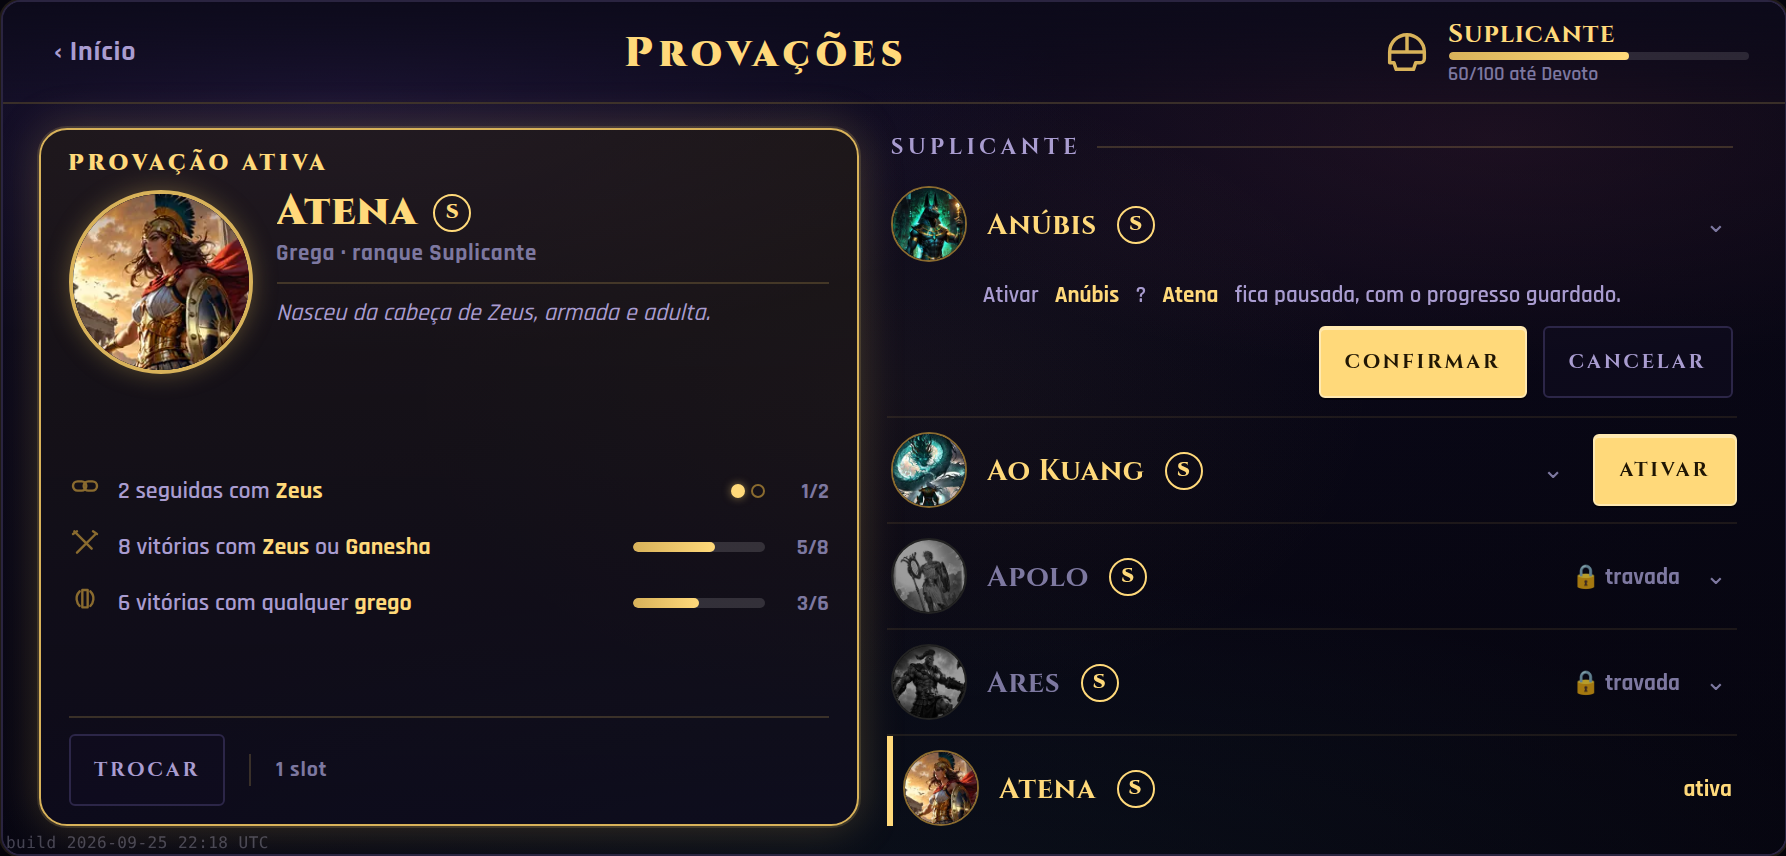
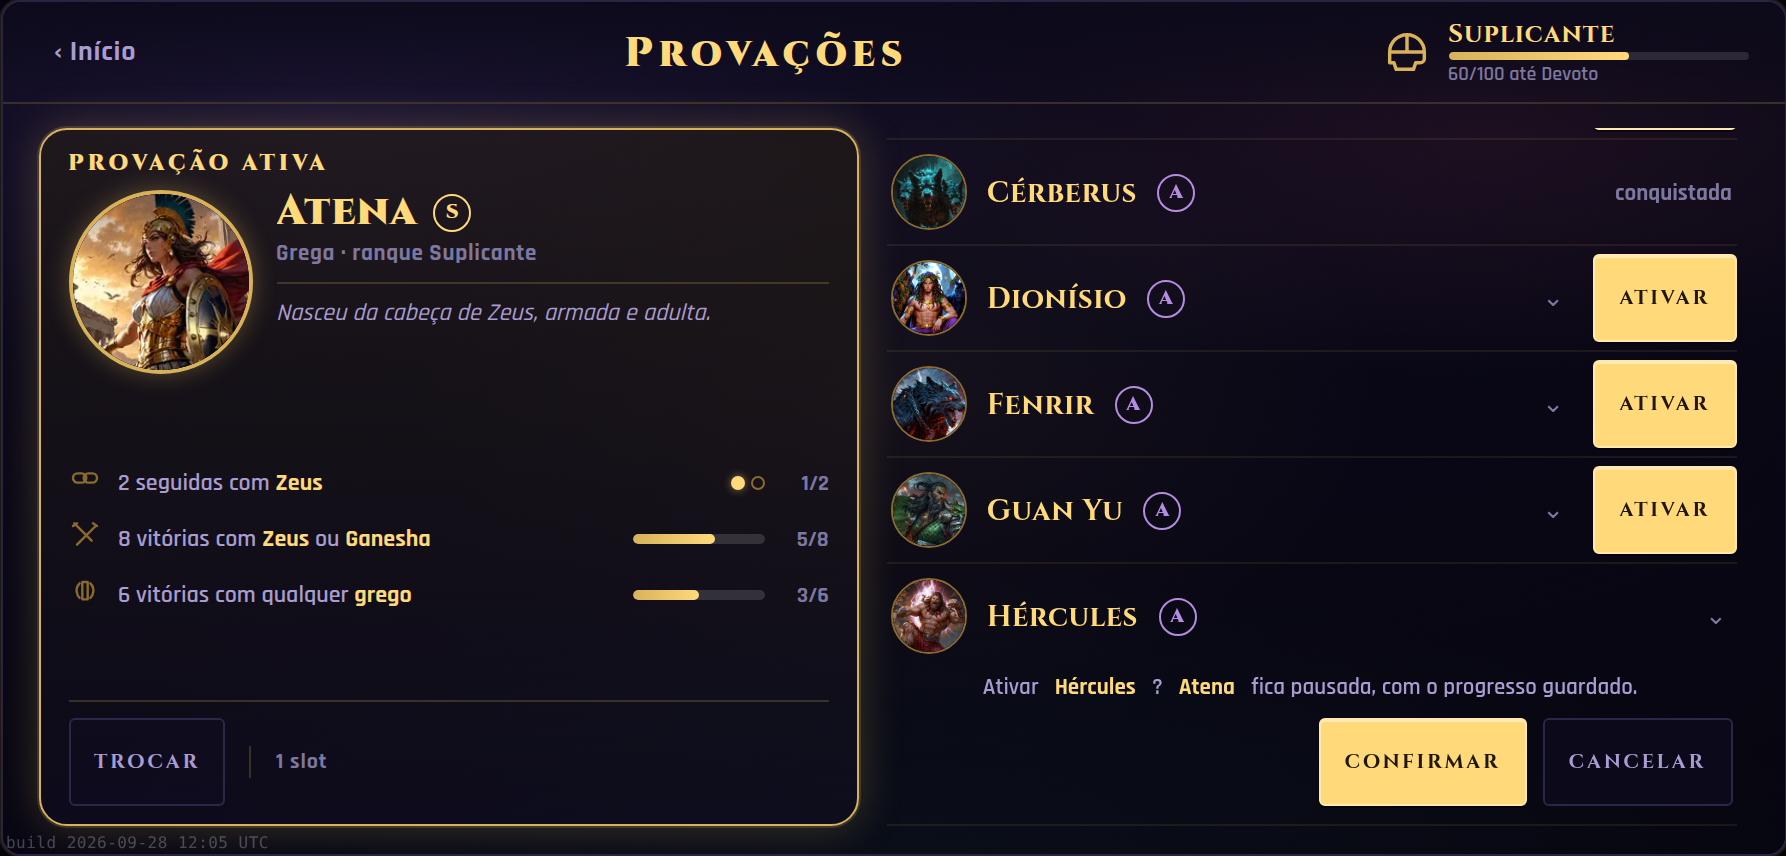
§316: quatro correções antes do teste no aparelho
1) Piso de toque §301: ATIVAR/RETOMAR/CONFIRMAR/CANCELAR e TROCAR de 36 → 44px de
   design (~37 físicos no S24, escala ~0,84, acima do piso 28–34). A guarda passa a
   medir CADA botão (não só a linha, que segue ≥44).
2) Expandir não abre fora da vista: renderMissoes rola a coluna (scrollIntoView
   block:'nearest') ao expandir uma linha ou abrir a confirmação, para a área aberta
   ficar inteira visível. Guarda nova: expandir a ÚLTIMA linha deixa a .lr__exp dentro
   do viewport da coluna nas 4 larguras. Capturas de travada/pausada expandidas com
   Medusa/Hércules nas posições reais (roladas até a vista), não movidas ao topo.
3) Lista de nomes: "v" lê "A, B ou C" (vírgula + "ou" só no último) e "A ou B" com
   dois — painel e expansão. Pior: "Guan Yu, Nezha ou Ao Kuang".
4) DIST: guardas (jsdom + Chromium) e capturas rodam sobre dist/incursion.html — a
   suíte builda o dist antes, o teste lê o dist e o Chromium abre por file://.

DECISOES §316 + ESTADO atualizados. Suíte + build verdes.

Claude-Session: https://claude.ai/code/session_01RXkcJMEMadTZtCymgt9Yf6

diff --git a/tests/missoes_tela.test.js b/tests/missoes_tela.test.js
@@ -137,11 +137,22 @@ console.log('\n== 10. elo com o deus (medalhão do painel) ==');
   ok(w.eval("rotaAtual()==='deus'"), 'o medalhão do painel leva ao detalhe do deus');
 }
 
-// ---- 11. ALVOS DE TOQUE (§234/§301) ----
-console.log('\n== 11. toque: linha e botões acima do piso ==');
-w.eval(C_RICO);
+// ---- 11. ALVOS DE TOQUE (§234/§301): a LINHA e CADA BOTÃO no piso ~44 de design ----
+console.log('\n== 11. toque: linha e CADA botão ≥44px de design (piso §301) ==');
+w.eval(C_RICO); w.eval("provTrocaConfirm='anubis';render();");   // abre a confirmação p/ medir Confirmar/Cancelar
 ok(parseFloat(w.getComputedStyle($('.lr__tap')).minHeight) >= 44, `a linha tem alvo de toque ≥44px de design (${w.getComputedStyle($('.lr__tap')).minHeight})`);
-ok($$('.lr__acao .b, .pa__foot .b').every(b => parseFloat(w.getComputedStyle(b).minHeight) >= 36), 'os botões (Ativar/Retomar/Trocar) ≥36px de design');
+{
+  const bs = $$('.lr__acao .b, .pa__foot .b, .lr__confb .b');
+  const rotulos = bs.map(b => txt(b));
+  const menores = bs.filter(b => parseFloat(w.getComputedStyle(b).minHeight) < 44).map(b => txt(b));
+  ok(bs.length >= 4 && menores.length === 0, `CADA botão (${rotulos.join('/')}) ≥44px de design (§301); abaixo: ${menores.join(',') || 'nenhum'}`);
+}
+w.eval("provTrocaConfirm=null;");
+
+// ---- 12. LISTA DE NOMES (§316-fix): "A, B ou C" (vírgula + "ou" só no último); "A ou B" com dois ----
+console.log('\n== 12. gramática da lista de nomes ==');
+ok(w.eval("_obTexto({tipo:'v',lista:['zeus','ogum','tyr'],n:8},false)") === '8 vitórias com <b>Zeus</b>, <b>Ogum</b> ou <b>Tyr</b>', 'três nomes: "Zeus, Ogum ou Tyr"');
+ok(w.eval("_obTexto({tipo:'v',lista:['zeus','brigid'],n:8},false)") === '8 vitórias com <b>Zeus</b> ou <b>Brigid</b>', 'dois nomes: "Zeus ou Brigid"');
 
 if (falhas) { console.log(`\n== ${passes} ok, ${falhas} FALHAS (jsdom) ==`); process.exit(1); }
 console.log(`\n== jsdom OK (${passes}) — agora a varredura de LARGURA no Chromium ==`);
@@ -176,6 +187,21 @@ console.log(`\n== jsdom OK (${passes}) — agora a varredura de LARGURA no Chrom
       ok2(r.paClip <= 1, `${W} ${nome}: o painel NÃO rola (clip ${r.paClip})`);
       ok2(r.over <= 1, `${W} ${nome}: a lista não corta na horizontal (over ${r.over})`);
       ok2(r.nameClip <= 1, `${W} ${nome}: nenhum nome de linha cortado por reticência (clip ${r.nameClip})`);
+      await page.close();
+    }
+    // §316-fix: EXPANDIR A ÚLTIMA linha da lista → a área aberta fica INTEIRA dentro do viewport da coluna.
+    {
+      const page = await (await browser.newContext({ viewport: { width: W, height: 428 }, deviceScaleFactor: 2 })).newPage();
+      await page.goto(distAbs, { waitUntil: 'load' }); await page.evaluate(M3); await page.waitForTimeout(90);
+      const r = await page.evaluate(() => {
+        const rows = [...document.querySelectorAll('.lr[data-deus]')].filter(x => x.querySelector('.lr__tap[data-linha]'));
+        const last = rows[rows.length - 1]; const k = last.dataset.deus;
+        provExpandida = k; render();   // expande a última + rola p/ dentro da vista (o próprio renderMissoes)
+        const rol = document.querySelector('.pv__dir'); const rb = rol.getBoundingClientRect();
+        const exp = document.querySelector(`.lr[data-deus="${k}"] .lr__exp`); const eb = exp.getBoundingClientRect();
+        return { k, top: Math.round(eb.top - rb.top), bot: Math.round(eb.bottom - rb.bottom) };
+      });
+      ok2(r.top >= -1 && r.bot <= 1, `${W}: expandir a ÚLTIMA linha (${r.k}) — área aberta INTEIRA na vista (topo ${r.top}, base ${r.bot})`);
       await page.close();
     }
   }

diff --git a/src/ui/home.js b/src/ui/home.js
@@ -381,13 +381,15 @@ function _obIc(t){
   if (t === 'a')  return S('<path d="M12 5l2 3-2 3-2-3z" fill="currentColor" stroke="none"/><path d="M6 8l1.6 2.4L6 12.8 4.4 10.4z" fill="currentColor" stroke="none"/><path d="M18 8l1.6 2.4L18 12.8l-1.6-2.4z" fill="currentColor" stroke="none"/>');
   return '';
 }
+// junta uma lista de nomes com o "ou" só no último ("Zeus, Ogum ou Tyr"; "Zeus ou Brigid"; "Zeus").
+function _juntarOu(partes){ if (partes.length <= 1) return partes[0] || ''; if (partes.length === 2) return partes[0] + ' ou ' + partes[1]; return partes.slice(0, -1).join(', ') + ' ou ' + partes[partes.length - 1]; }
 // TEXTO do objetivo (nomes em <b>; se `mark`, os nomes NÃO possuídos ficam em cinza+cadeado — só na expansão travada).
 function _obTexto(o, mark){
   const nm = (g) => (mark && !_temDeus(g)) ? `<span class="lk">${H(nomeM(g))} 🔒</span>` : `<b>${H(nomeM(g))}</b>`;
   if (o.tipo === 's')  return `${o.k} seguidas com ${nm(o.alvo)}`;
   if (o.tipo === 'sp') return `${o.k} seguidas com qualquer <b>${_adjS(o.panteao)}</b>`;
   if (o.tipo === 'c')  return `${o.k} seguidas com ${nm(o.lista[0])} e com ${nm(o.lista[1])}`;
-  if (o.tipo === 'v')  return `${o.n} vitórias com ${o.lista.map(nm).join(' ou ')}`;
+  if (o.tipo === 'v')  return `${o.n} vitórias com ${_juntarOu(o.lista.map(nm))}`;
   if (o.tipo === 'j')  return `${o.n} vitórias com ${nm(o.lista[0])} e ${nm(o.lista[1])}`;
   if (o.tipo === 'p')  return `${o.n} vitórias com qualquer <b>${_adjS(o.panteao)}</b>`;
   if (o.tipo === 'a')  return `${o.n} panteões diferentes`;
@@ -634,6 +636,10 @@ function renderMissoes(){
   }; });
   [...stage.querySelectorAll('[data-troca-ok]')].forEach(b => { b.onclick = (ev) => { ev.stopPropagation(); _pedirAtivar(b.dataset.trocaOk); }; });
   [...stage.querySelectorAll('[data-troca-no]')].forEach(b => { b.onclick = (ev) => { ev.stopPropagation(); provTrocaConfirm = null; render(); }; });
+  // §316: ao EXPANDIR (ou abrir a confirmação), rola a coluna para a área aberta ficar INTEIRA visível — o
+  // jogador não fica com o requisito abaixo da dobra. block:'nearest' mostra a linha+área por completo se cabe.
+  const _aberta = provExpandida ? stage.querySelector(`.lr[data-deus="${provExpandida}"]`) : (provTrocaConfirm ? stage.querySelector(`.lr[data-deus="${provTrocaConfirm}"]`) : null);
+  if (_aberta && typeof _aberta.scrollIntoView === 'function') { try { _aberta.scrollIntoView({ block: 'nearest' }); } catch (e) { try { _aberta.scrollIntoView(false); } catch (e2) {} } }
   // AO VIVO: se online, re-busca a conta do servidor UMA vez ao abrir (progresso fresco), sem laço.
   if (online && typeof refrescarConta === 'function') refrescarConta();
   fit();

diff --git a/src/shell.html b/src/shell.html
@@ -2176,7 +2176,7 @@ body{font-family:'Rajdhani',sans-serif;color:var(--ink);display:grid;place-items
   display:-webkit-box;-webkit-box-orient:vertical;-webkit-line-clamp:2;overflow:hidden}
 .pa__objs{flex:1 1 auto;min-height:0;display:flex;flex-direction:column;justify-content:center;gap:6px;margin:8px 0 6px;overflow:hidden}
 .pa__foot{flex:0 0 auto;display:flex;align-items:center;gap:12px;border-top:1px solid var(--pv-line);padding-top:8px}
-.pa__foot .b{min-height:36px}
+.pa__foot .b{min-height:44px}
 .pa__footdiv{width:1px;height:16px;background:var(--pv-line)}
 .pa__slot{font-family:'Rajdhani',sans-serif;font-weight:700;font-size:11px;letter-spacing:.04em;color:var(--ink-mute)}
 .pa--vazio .pa__vazio{flex:1 1 auto;display:flex;flex-direction:column;align-items:center;justify-content:center;gap:12px;text-align:center}
@@ -2241,11 +2241,11 @@ body{font-family:'Rajdhani',sans-serif;color:var(--ink);display:grid;place-items
 .lr__seta{flex:0 0 auto;color:var(--ink-mute);font-size:13px;transition:transform .15s;width:16px;text-align:center}
 .lr__seta.is-open{transform:rotate(180deg)}
 .lr__acao{flex:0 0 auto;margin-left:10px}
-.lr__acao .b{min-height:36px}
+.lr__acao .b{min-height:44px}
 .lr__conf{font-family:'Rajdhani',sans-serif;font-weight:600;font-size:11.5px;color:var(--ink-dim);padding:2px 2px 9px 48px;display:flex;flex-wrap:wrap;align-items:center;gap:8px}
 .lr__conf b{color:var(--gold-text)}
 .lr__confb{display:inline-flex;gap:8px;margin-left:auto}
-.lr__confb .b{min-height:36px}
+.lr__confb .b{min-height:44px}
 .lr__exp{padding:2px 2px 10px 48px}
 .exp__motivo{font-style:italic;font-weight:500;font-size:11.5px;line-height:1.35;color:var(--ink-mute);margin:0 0 6px}
 .exp__objs{display:flex;flex-direction:column;gap:4px}

diff --git a/DECISOES.md b/DECISOES.md
@@ -46,10 +46,19 @@ progresso guardado." + Confirmar cheio/Cancelar contorno, padrão §245). Enquan
 larguras (780/893/1075/1200) e com o painel de 2/3/4 objetivos: **o painel NUNCA rola** (medido), **a lista NUNCA rola na
 horizontal** (borda direita real, não o `scrollWidth` — que o flexbox do Chromium infla), e **nenhum nome de linha é cortado
 por reticência** (medido por clone solto; piores nomes "Mula sem Cabeça"/"Yamato Takeru"). Os objetivos do painel QUEBRAM em
-duas linhas em vez de cortar (o pior objetivo "8 vitórias com Zeus ou Ogum ou Tyr" cabe sem clip). Toque: a linha ≥44px, os
-botões ≥36px de design (§301/§234). Capturas a 893 em `docs/capturas-316/` (normal · travada expandida · pausada expandida ·
+duas linhas em vez de cortar. Capturas a 893 em `docs/capturas-316/` (normal · travada expandida · pausada expandida ·
 confirmação). **★ Lição (§308):** o `scrollWidth` de um contêiner flex no Chromium infla pelo `gap`/max-content e não serve de
 guarda de overflow — medir a BORDA DIREITA real de cada filho contra o `clientWidth`, e usar `overflow-x:hidden` no scroller.
+
+**Correções antes do teste no aparelho (4):** (1) **Piso de toque §301** — ATIVAR/RETOMAR/CONFIRMAR/CANCELAR e o TROCAR foram
+de 36 a **44px de design** (~37 físicos no S24, escala ~0,84 — acima do piso 28–34; a guarda mede CADA botão, não só a linha,
+que segue ≥44). (2) **Expandir não abre fora da vista** — ao expandir uma linha (ou abrir a confirmação), o `renderMissoes`
+rola a coluna (`scrollIntoView block:'nearest'`) para a área aberta ficar INTEIRA visível; guarda: expandir a ÚLTIMA linha
+deixa a `.lr__exp` dentro do viewport da coluna nas 4 larguras (topo ≥−1, base ≤+1). As capturas de "travada"/"pausada"
+expandidas mostram Medusa/Hércules nas POSIÇÕES REAIS (roladas até a vista), não movidas ao topo. (3) **Lista de nomes** — um
+"v" lê "A, B ou C" (vírgula, "ou" só no último) e "A ou B" com dois; vale painel e expansão (o pior, huangdi, lê "Guan Yu,
+Nezha ou Ao Kuang"). (4) **DIST** — guardas (jsdom + Chromium) e capturas rodam sobre `dist/incursion.html` (o que o app
+carrega): a suíte builda o dist antes, o teste lê o dist e o Chromium abre o dist por `file://`.
 
 ## §314 — UMA PROVAÇÃO ATIVA POR VEZ: servidor migrado para os objetivos + a tela (painel + lista híbrida). (PARTE 2.)
 

diff --git a/ESTADO.md b/ESTADO.md
@@ -18,9 +18,12 @@ REQUISITOS ali (só uma por vez) — disponível: meta; pausada: progresso guard
 barras e ATIVAR; resto plano. **Guardas** (`tests/missoes_tela.test.js`, §295/§307/§308): 5 estados + painel cheio/vazio +
 acordeão + faixa fechada/aberta + confirmação; Chromium 780/893/1075/1200 × painel 2/3/4 obj: painel nunca rola, lista nunca
 rola na horizontal (borda direita real, não scrollWidth — que o flex do Chromium infla), nenhum nome cortado por reticência
-(clone; piores "Mula sem Cabeça"/"Yamato Takeru"); objetivos do painel quebram em 2 linhas em vez de cortar. Toque: linha ≥44,
-botões ≥36. **★ Lição §308:** o `scrollWidth` de contêiner flex no Chromium infla pelo `gap` — medir a borda direita real +
-`overflow-x:hidden`. Capturas a 893 em `docs/capturas-316/` (normal · travada exp · pausada exp · confirmação). **Arquivos:**
+(clone; piores "Mula sem Cabeça"/"Yamato Takeru"); objetivos do painel quebram em 2 linhas em vez de cortar. **Correções p/ o
+aparelho:** (1) toque — linha ≥44 e CADA botão (Ativar/Retomar/Confirmar/Cancelar/Trocar) a **44 de design** (~37 físico S24,
+piso §301); (2) expandir/confirmar **rola p/ a área ficar inteira na vista** (scrollIntoView nearest; guarda: última linha
+expandida dentro do viewport); (3) lista de nomes "A, B ou C"/"A ou B"; (4) guardas+capturas sobre o **DIST**. **★ Lição §308:**
+o `scrollWidth` de contêiner flex no Chromium infla pelo `gap` — medir a borda direita real + `overflow-x:hidden`. Capturas a
+893 em `docs/capturas-316/` (normal · travada exp · pausada exp · confirmação — Medusa/Hércules em posição real). **Arquivos:**
 `src/ui/home.js`, `src/shell.html`, `tests/missoes_tela.test.js`, `tests/aquisicao.test.js`, `dist/`. Ver DECISOES §316.
 Suíte + build verdes.
 
